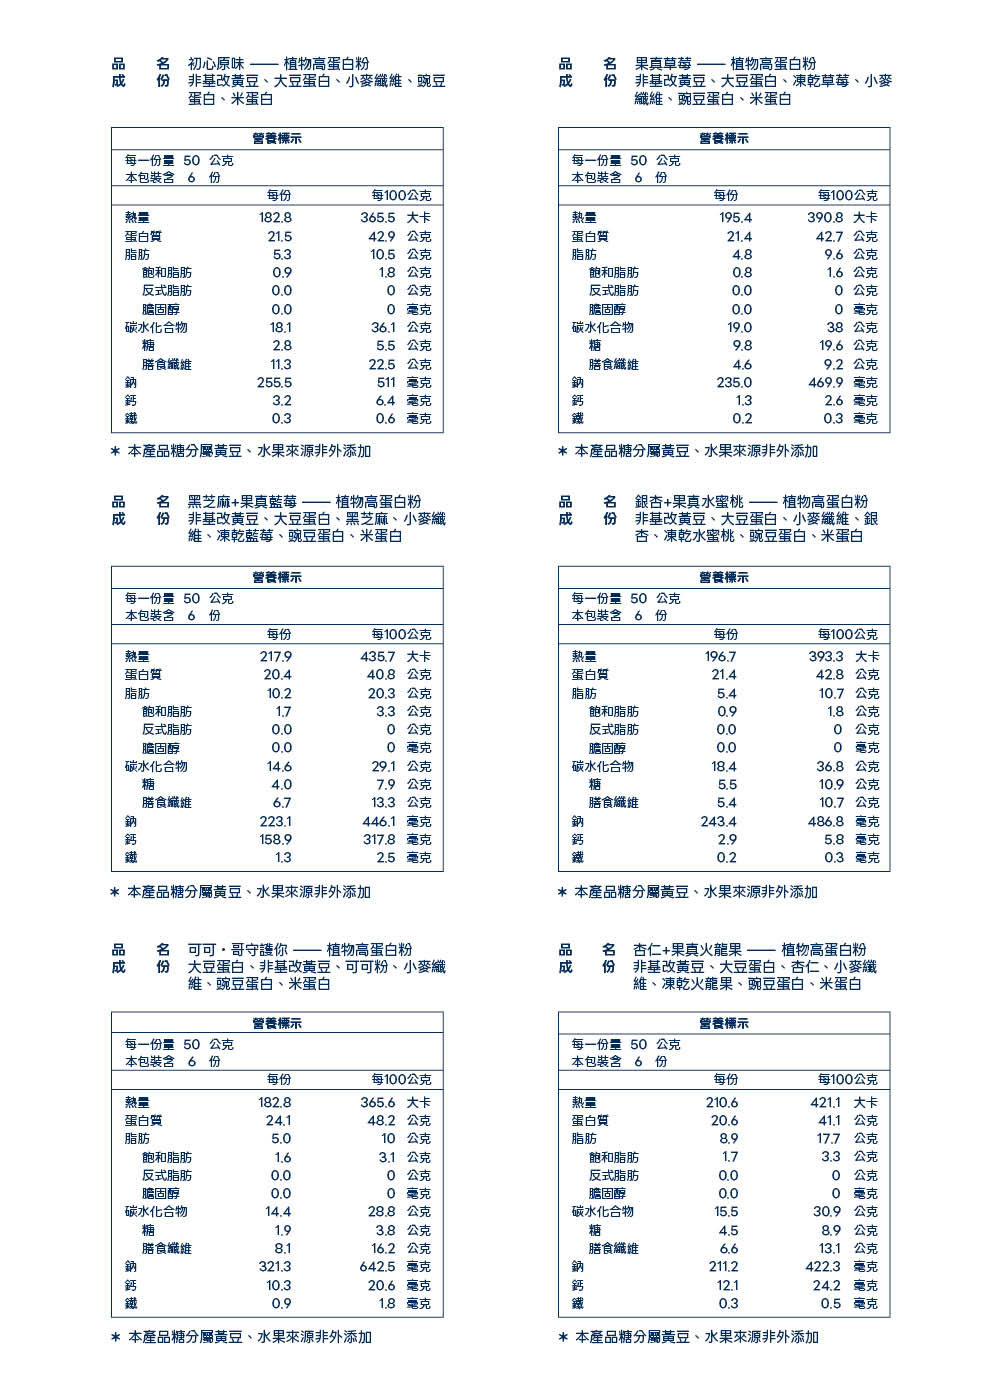
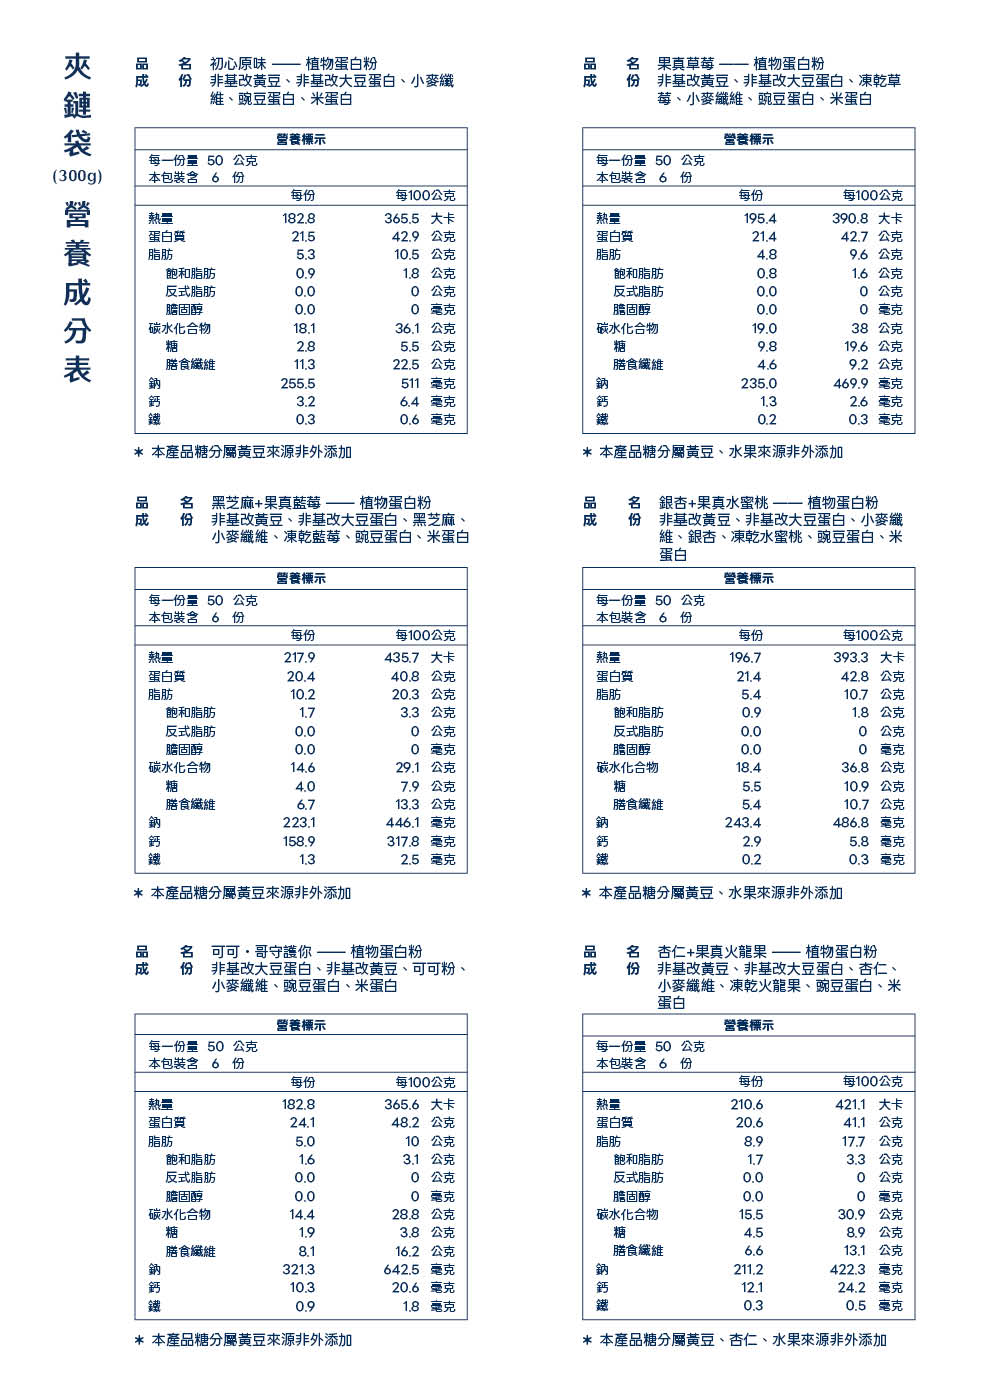
feat(shop): update nutrition-facts sheets + fix 1/6-serving routing for all bundles
Updated both static nutrition images to the owner's newest versions
(營養標示 夾鏈袋.jpg → 7.jpg 6-serving sheet, 營養標示 隨身包.jpg →
7-single.jpg 1-serving sheet, replacing the old mismatched .png).

Also fixed the routing rule. It previously only matched product names
containing "50克" literally, so the four 50克-pack bundles (一週營養
任務包, 初心探索10天隨身組合, 30天植物蛋白自選組合, 60天植物蛋白支持
計畫— all built from 1-serving 50克 packs) were incorrectly showing
the 6-serving sheet. New rule: 300克/夾鏈袋 products show 6-serving,
everything else (all 50克-based single packs and bundles) shows
1-serving. Verified against all 16 active protein products.

diff --git a/apps/web/src/app/shop/[slug]/page.tsx b/apps/web/src/app/shop/[slug]/page.tsx
@@ -281,15 +281,18 @@ export default async function ProductDetailPage({ params }: { params: Promise<{ 
         )}
 
         {/* Product info images — protein only. Slot 7 is the nutrition-facts
-            sheet: the standalone 50克 single-serve products (product name
-            contains "50克") show the 1-serving version; every other protein
-            product (300克 bags, bundles) shows the 6-serving version. */}
+            sheet: 300克/夾鏈袋 products (single 300克 bags, and the 3/10-入
+            bundles built from those bags) show the 6-serving sheet; every
+            other protein product — the standalone 50克 packs AND the
+            50克-pack bundles (一週任務包, 10/30/60天 組合) — is built from
+            1-serving packs, so it shows the 1-serving sheet. */}
         {isProtein && (
           <div className="mt-14 max-w-[960px] mx-auto">
             {[1, 2, 3, 4, 5, 6, 7, 8, 9].map((n) => {
+              const is6Serving = product.name.includes("300克") || product.name.includes("夾鏈袋")
               const src =
-                n === 7 && product.name.includes("50克")
-                  ? "/product-info/protein/7-single.png"
+                n === 7 && !is6Serving
+                  ? "/product-info/protein/7-single.jpg"
                   : `/product-info/protein/${n}.jpg`
               return (
                 <Image
